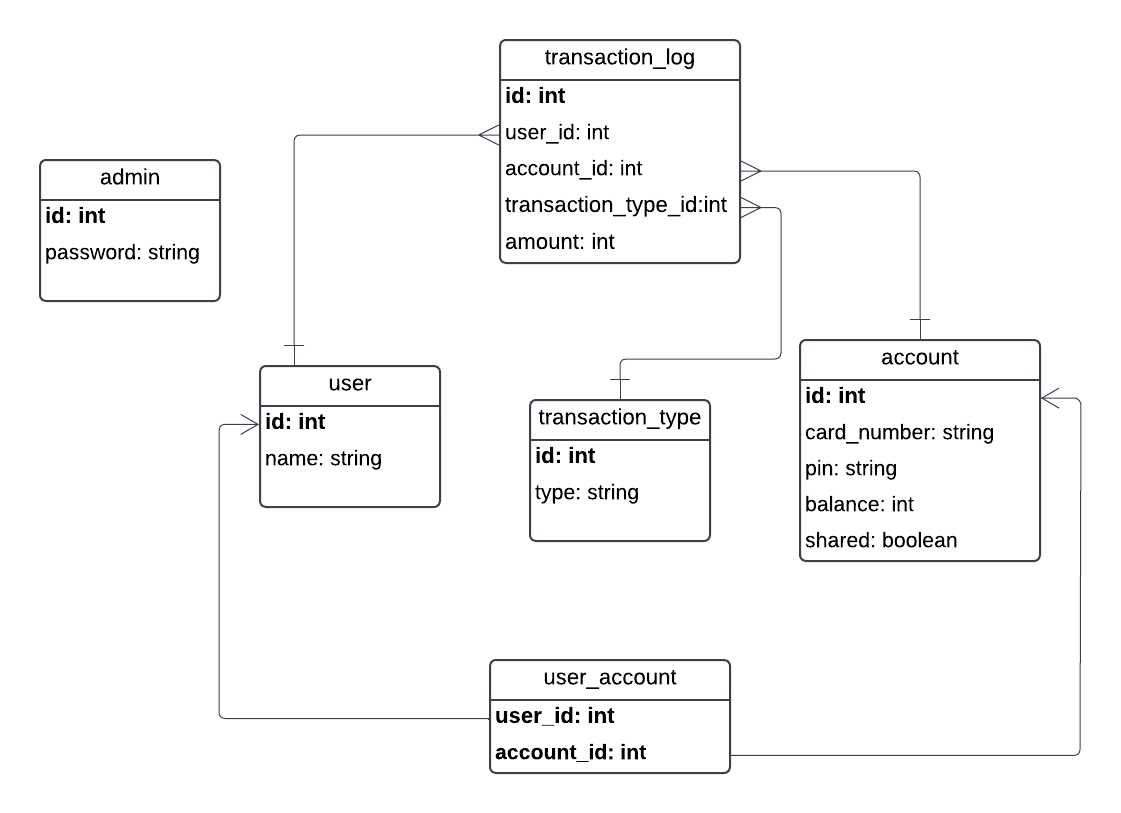
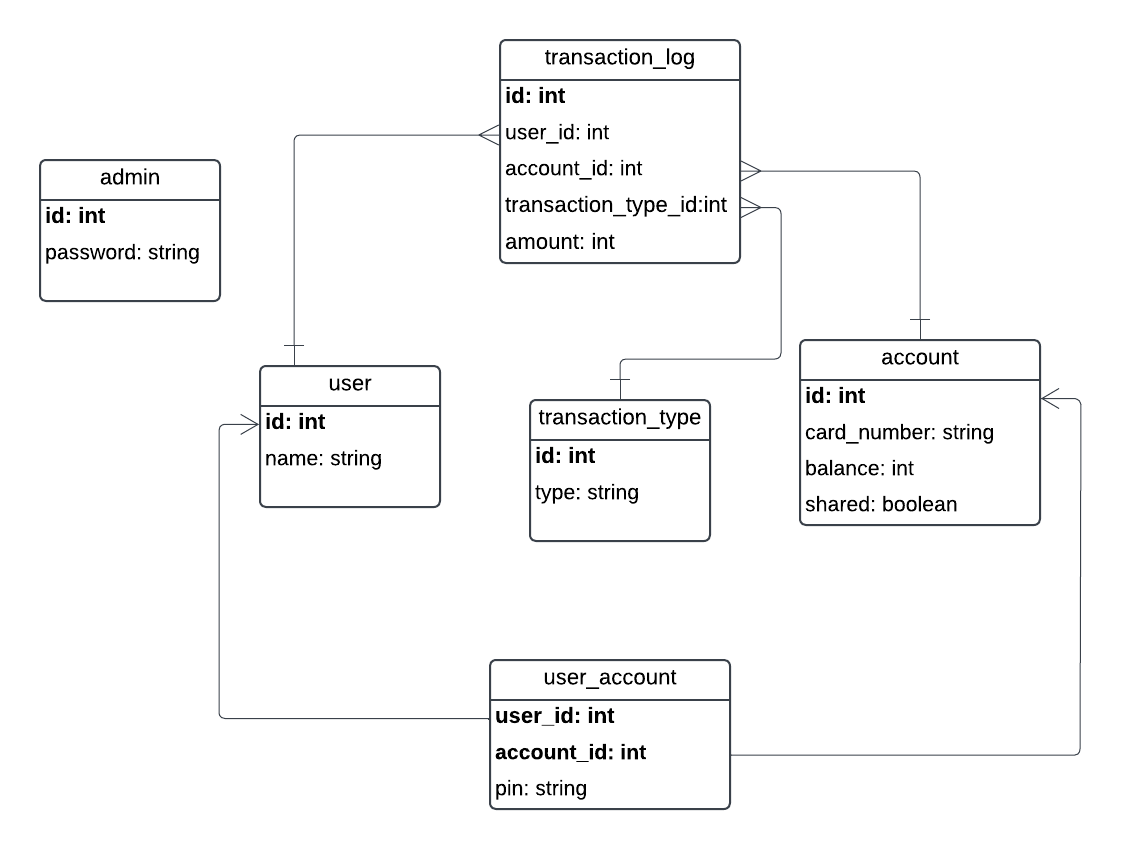
Modified DB scheme

diff --git a/src/atmsystem/models/User.java b/src/atmsystem/models/User.java
@@ -15,6 +15,11 @@ public class User {
         set_account(account);
     }
     
+    public User(String name, Account account) throws Exception{
+        set_name(name);
+        set_account(account);
+    }
+    
     public User(Account account) throws Exception{
         set_account(account);
     }
@@ -24,9 +29,12 @@ public class User {
     }
     
     public void set_name(String name) throws Exception{
-        if(name == null || name.isEmpty()) new Exception("User should have a name");
         
-        if(name.length() < 3) new Exception("Name should be >= " + name_length);
+        if(name == null || name.isEmpty()) throw new Exception("User should have a name");
+        
+        if(name.length() < 3) throw new Exception("Name length should be >= " + name_length);
+        
+        this.name = name;
     }
     
     

diff --git a/src/atmsystem/ATMSystem.java b/src/atmsystem/ATMSystem.java
@@ -1,21 +1,16 @@
 package atmsystem;
 
-import java.math.BigInteger;
 
 import atmsystem.models.Account;
+import atmsystem.models.User;
 
-import atmsystem.models.Transaction;
-import java.util.logging.Level;
-import java.util.logging.Logger;
 
 public class ATMSystem {
-
-    public static void updateGUI(String data) {
-        System.out.println("GUI updated with " + data);
-    }
 
     public static void main(String[] args) {
         
     }
+    
+    
 
 }

diff --git a/src/atmsystem/models/Account.java b/src/atmsystem/models/Account.java
@@ -25,6 +25,13 @@ public class Account {
         set_pin(pin);
     }
     
+    public Account(String pin, int balance, boolean shared) throws Exception{
+        set_pin(pin);
+        set_balance(balance);
+        set_shared(shared);
+    }
+    
+    
     
     public void set_id(int id){
         this.id = id;
